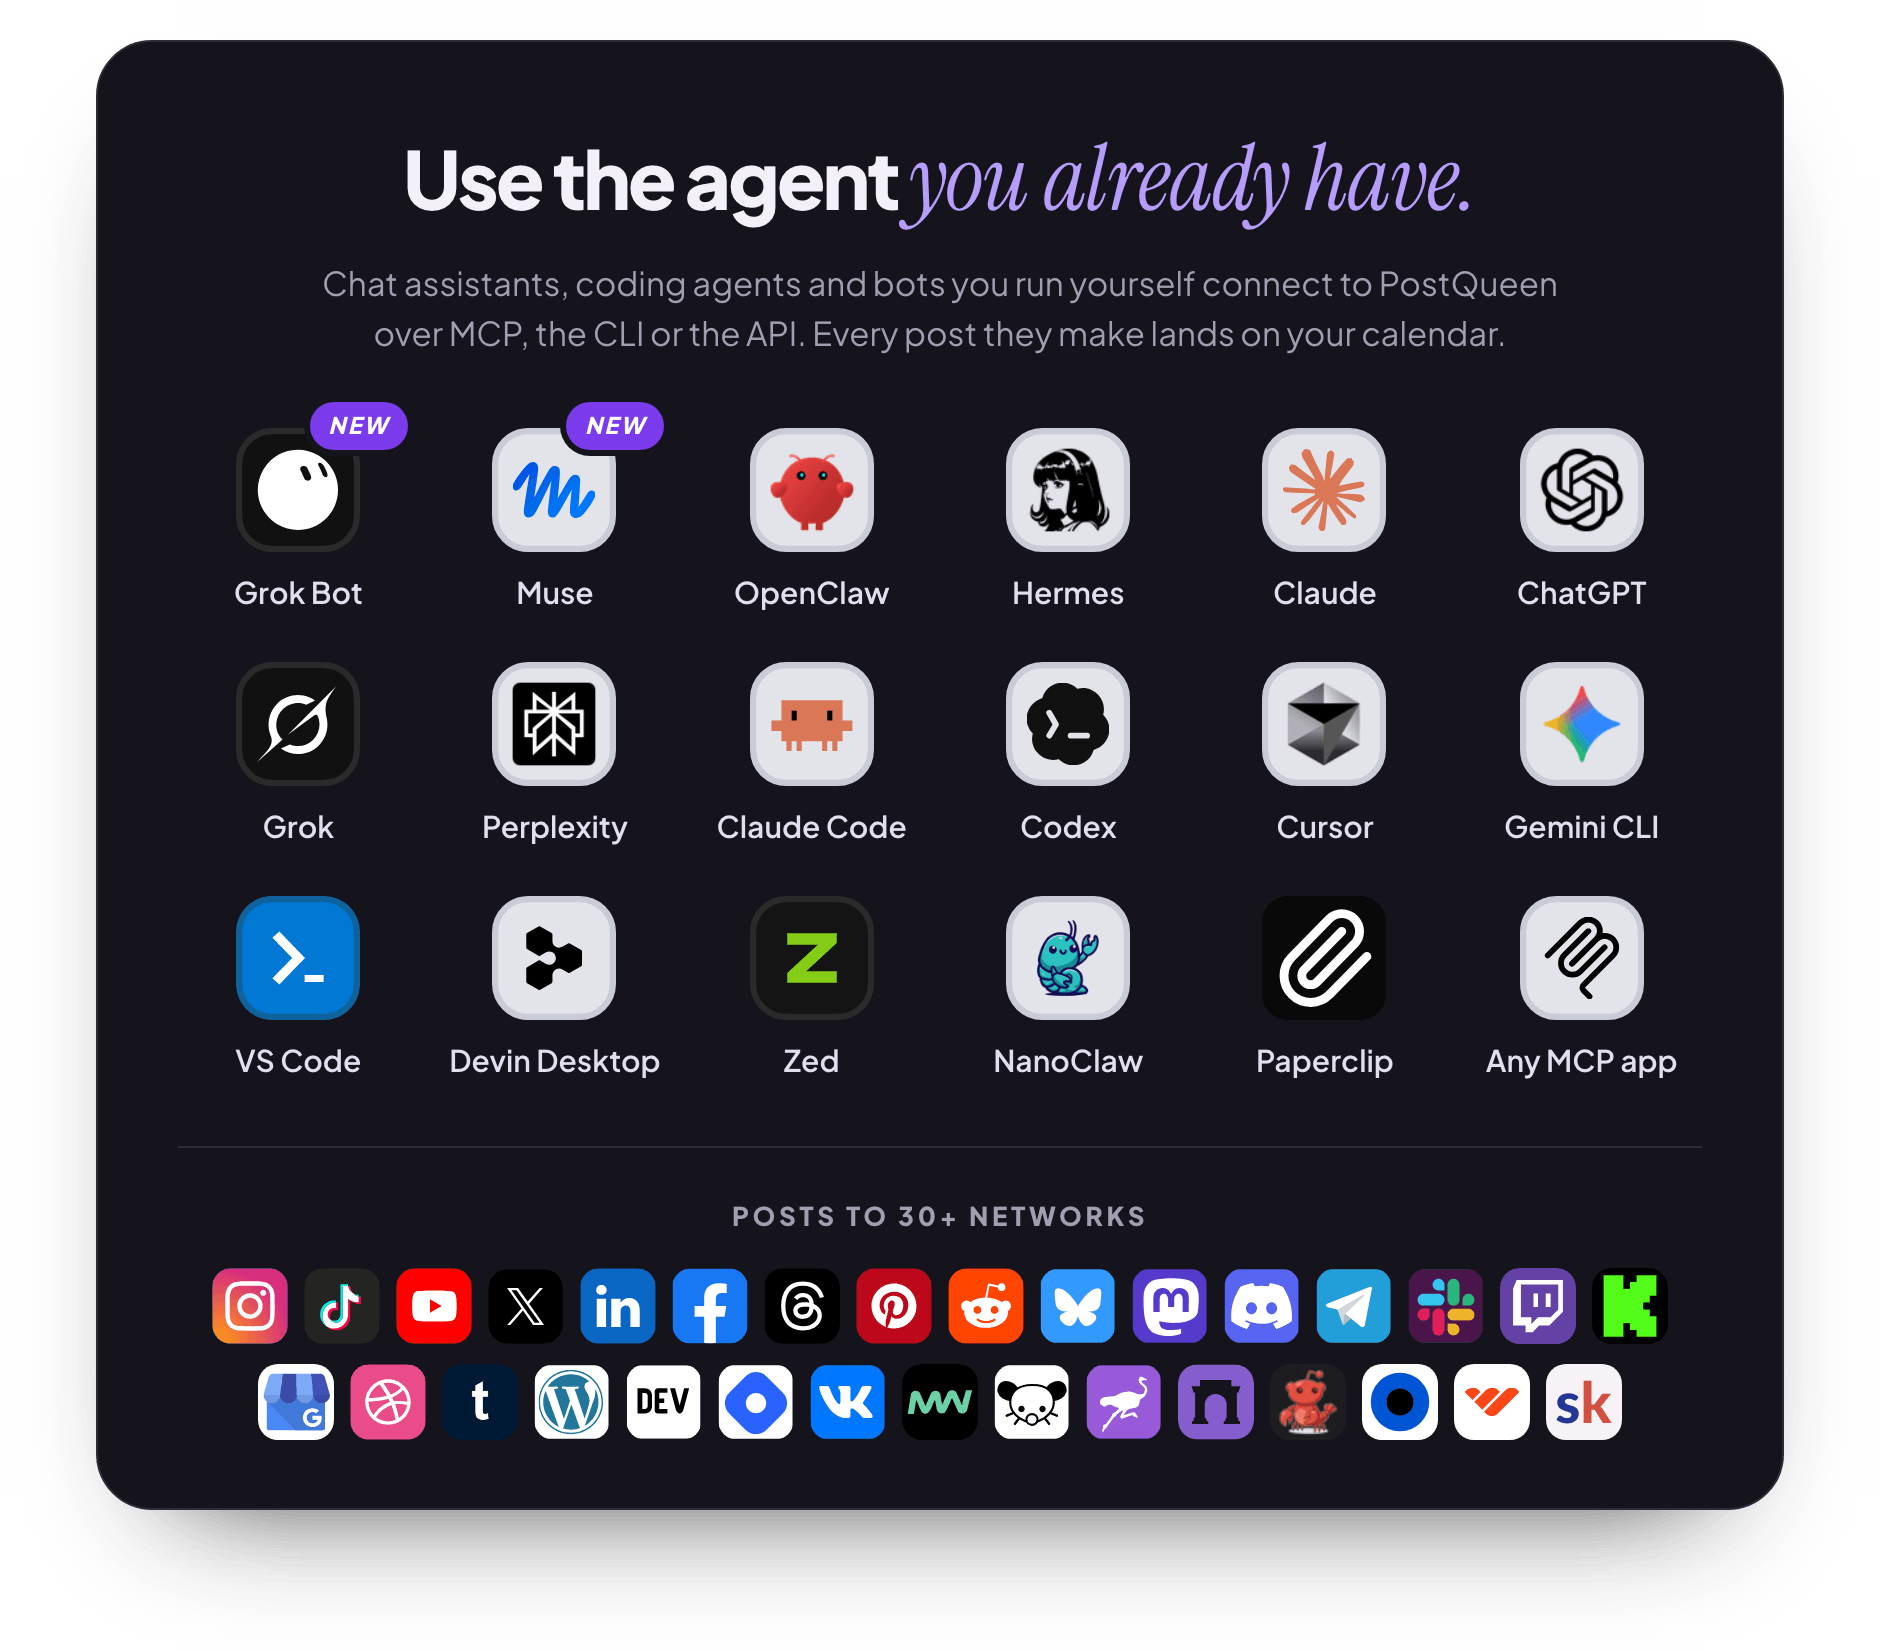
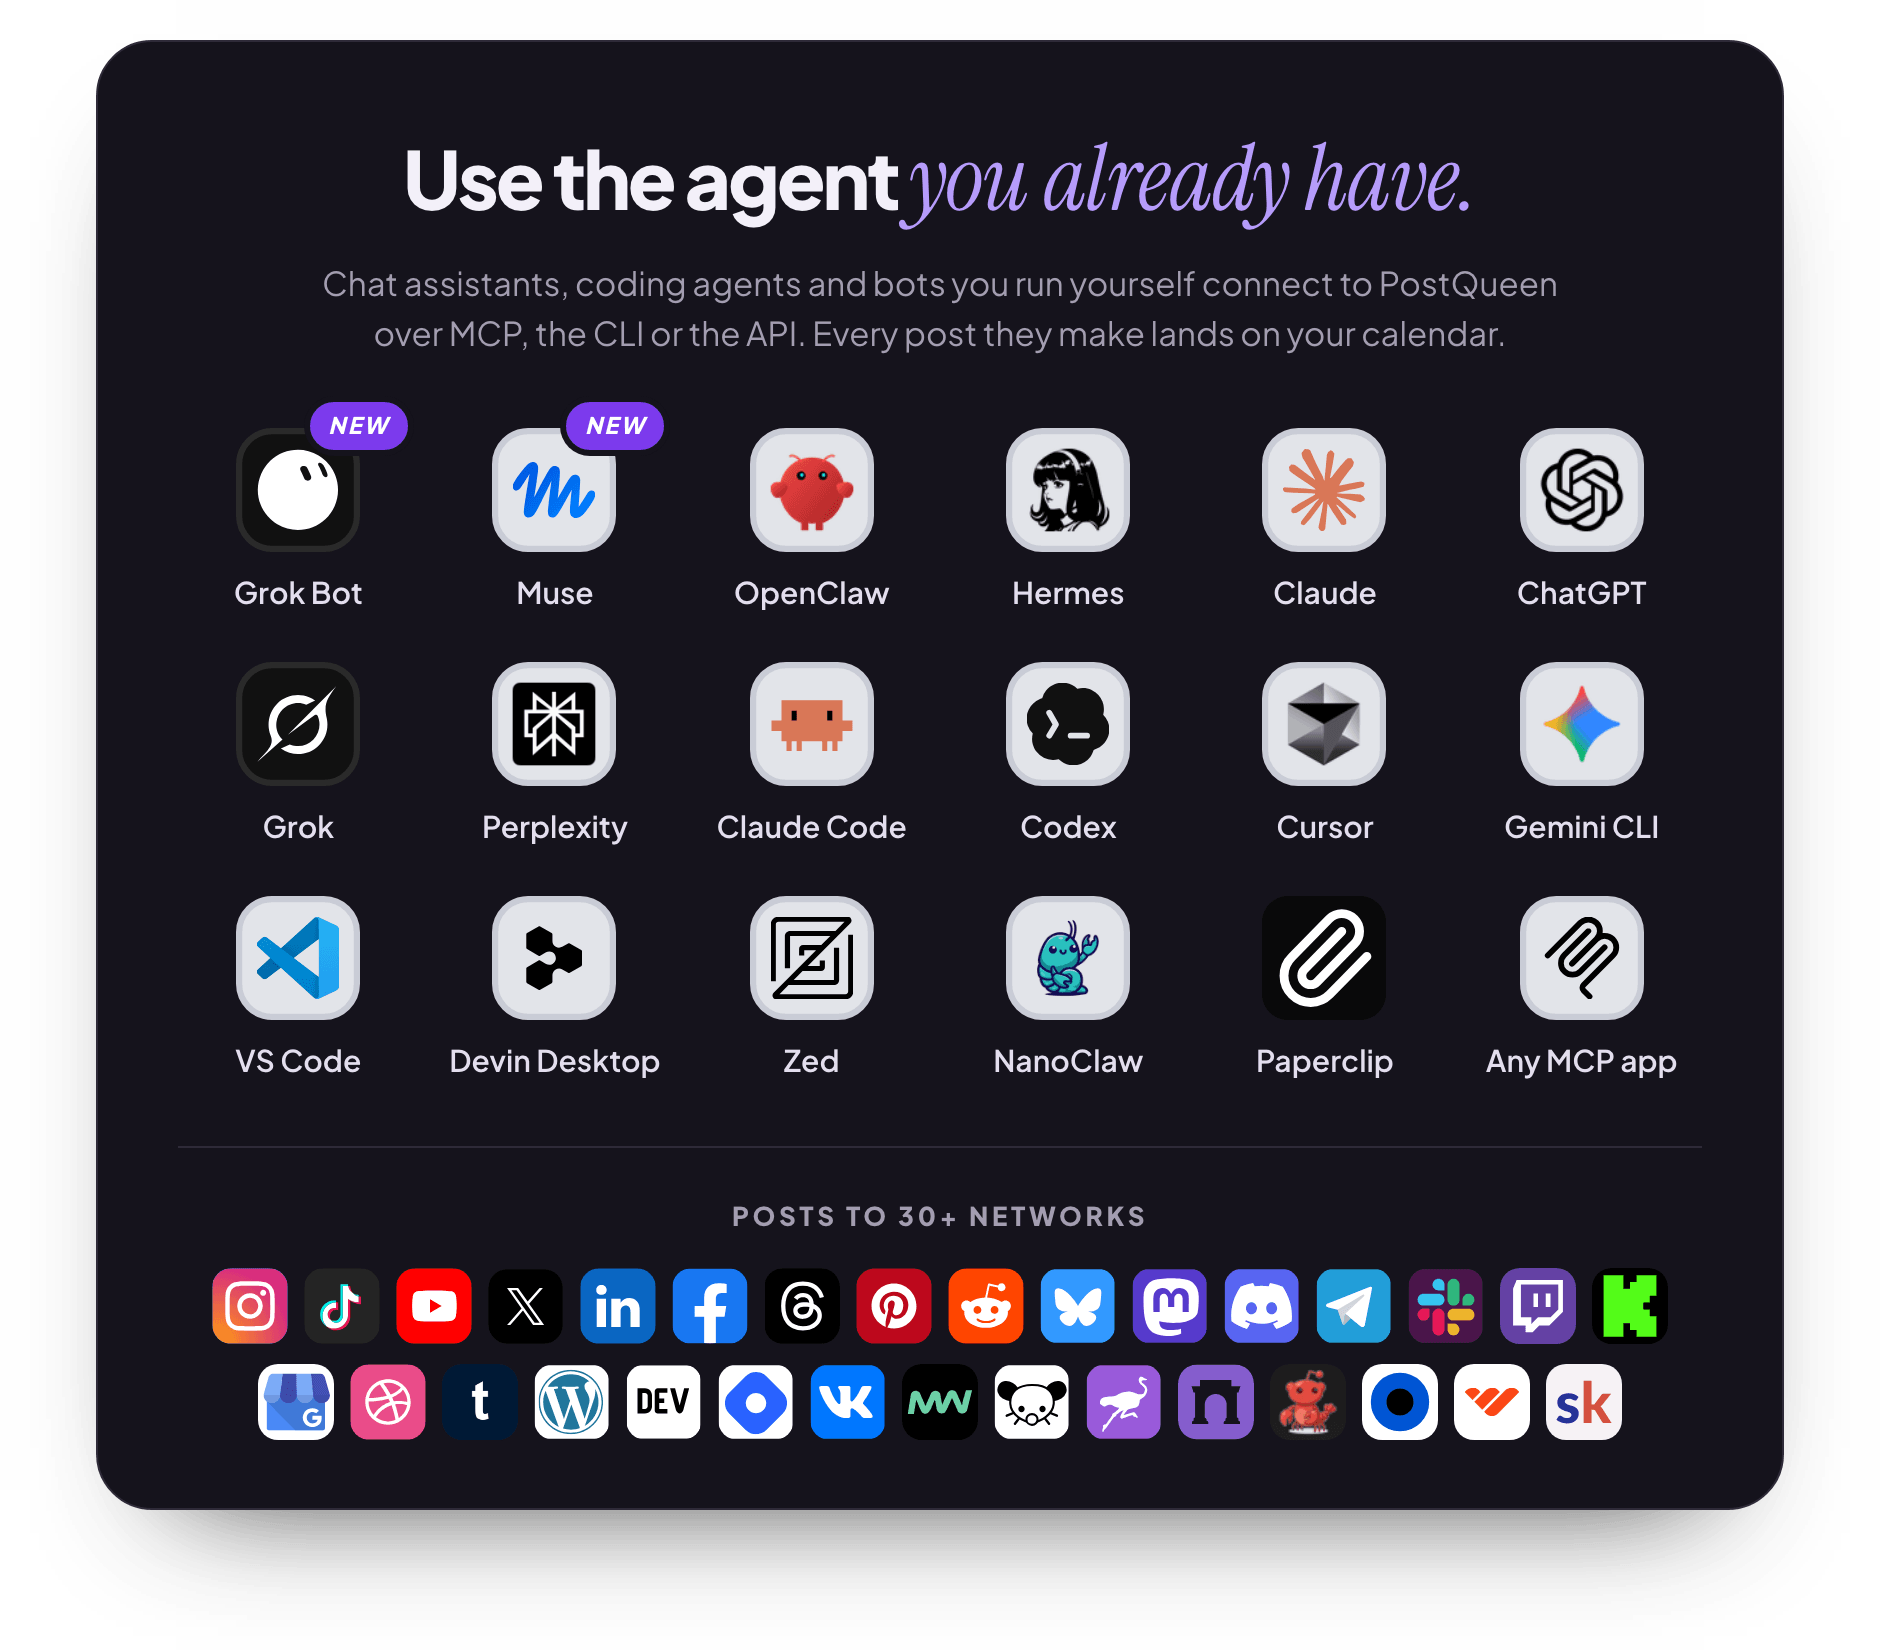
Use VS Code's and Zed's own marks instead of drawn stand-ins.
VS Code was a white ">" on a blue square and Zed a green "Z" on black,
both drawn by hand. They are now the vendors' marks on the same light tile
as the other agents: VS Code's blue icon from code.visualstudio.com/brand
and Zed's logomark from zed.dev/brand. The Connections window and the
README use the same files. The agents card is re-rendered with them, and
the catalog test pins both marks the way it pins Muse's and Codex's.

Devin Desktop's mark was already Devin's own: it is devin.ai's favicon,
which devin.ai/desktop uses too.

Changed region(s): [[0.1234, 0.5255, 0.216, 0.6182], [0.4011, 0.5255, 0.4628, 0.6182]]

diff --git a/apps/frontend/src/components/public-api/connections.catalog.spec.ts b/apps/frontend/src/components/public-api/connections.catalog.spec.ts
@@ -829,13 +829,15 @@ describe('Connect marketplace catalog', () => {
     assert.equal(defaultNavForConnection(byId('vscode')), 'all');
   });
 
-  it('uses original Grok Bot, Muse and Codex marks, not invented stand-ins', () => {
+  it('uses original Grok Bot, Muse, Codex, VS Code and Zed marks, not invented stand-ins', () => {
     assert.equal(byId('grok').icon, '/icons/connections/grok.svg');
     assert.equal(byId('grok-build').icon, '/icons/connections/grok.svg');
     assert.equal(byId('grok-bot').icon, '/icons/connections/grok-bot.svg');
     assert.equal(byId('muse').icon, '/icons/connections/muse.svg');
     assert.equal(byId('muse-code').icon, '/icons/connections/muse-code.svg');
     assert.equal(byId('codex').icon, '/icons/connections/codex.svg');
+    assert.equal(byId('vscode').icon, '/icons/connections/vscode.svg');
+    assert.equal(byId('zed').icon, '/icons/connections/zed.svg');
 
     const iconsDir = join(
       dirname(fileURLToPath(import.meta.url)),
@@ -846,6 +848,8 @@ describe('Connect marketplace catalog', () => {
     const muse = readFileSync(join(iconsDir, 'muse.svg'), 'utf8');
     const museCode = readFileSync(join(iconsDir, 'muse-code.svg'), 'utf8');
     const codex = readFileSync(join(iconsDir, 'codex.svg'), 'utf8');
+    const vscode = readFileSync(join(iconsDir, 'vscode.svg'), 'utf8');
+    const zed = readFileSync(join(iconsDir, 'zed.svg'), 'utf8');
 
     assert.doesNotMatch(grok, /M15 6\.5 17\.2 12\.3l6\.3\.5/);
     assert.match(grok, /24\.3186 12\.8506/);
@@ -873,5 +877,19 @@ describe('Connect marketplace catalog', () => {
     assert.match(codex, /#3941FF/);
     assert.match(codex, /#7A9DFF/);
     assert.match(codex, /#B1A7FF/);
+    // A white ">" on a blue square and a green "Z" on black were stand-ins.
+    assert.doesNotMatch(vscode, /M8\.8 10\.1 13\.6 15/);
+    assert.doesNotMatch(zed, /M9 9h12v2\.4L13\.6 18\.2/);
+    // VS Code's blue icon (code.visualstudio.com/brand) and Zed's logomark (zed.dev/brand).
+    const vscodeMark = Buffer.from(
+      vscode.match(/base64,([A-Za-z0-9+/=]+)/)?.[1] ?? '',
+      'base64'
+    ).toString('utf8');
+    assert.match(vscodeMark, /M70\.9119 99\.3171/);
+    const zedMark = Buffer.from(
+      zed.match(/base64,([A-Za-z0-9+/=]+)/)?.[1] ?? '',
+      'base64'
+    ).toString('utf8');
+    assert.match(zedMark, /M8\.4375 5\.625C6\.8842 5\.625/);
   });
 });
